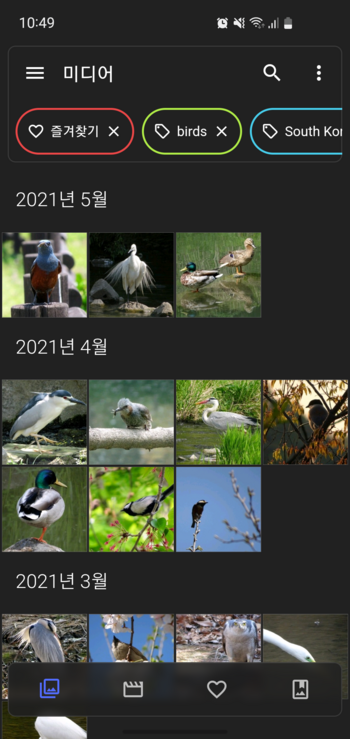
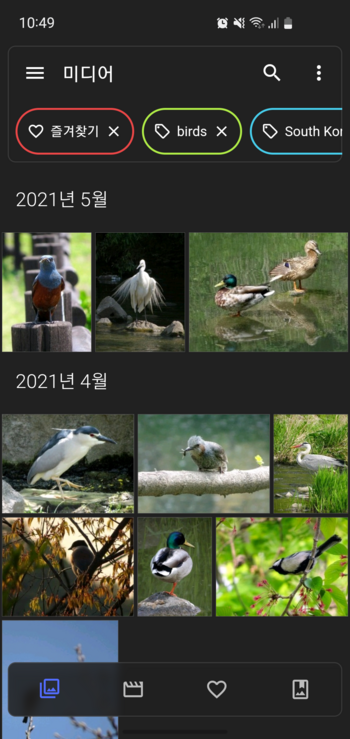
izzy: screenshot update

diff --git a/test_driver/driver_screenshots.dart b/test_driver/driver_screenshots.dart
@@ -1,8 +1,10 @@
 import 'package:aves/main_play.dart' as app;
+import 'package:aves/model/filters/favourite.dart';
 import 'package:aves/model/settings/defaults.dart';
 import 'package:aves/model/settings/enums/enums.dart';
 import 'package:aves/model/settings/settings.dart';
 import 'package:aves/model/source/enums/enums.dart';
+import 'package:aves/widgets/collection/collection_page.dart';
 import 'package:aves/widgets/filter_grids/countries_page.dart';
 import 'package:flutter_driver/driver_extension.dart';
 import 'package:flutter_test/flutter_test.dart';
@@ -17,6 +19,8 @@ Future<void> configureAndLaunch() async {
     ..hasAcceptedTerms = true
     ..isInstalledAppAccessAllowed = true
     ..isErrorReportingAllowed = false
+    ..setTileExtent(CollectionPage.routeName, 69)
+    ..setTileLayout(CollectionPage.routeName, TileLayout.mosaic)
     ..setTileExtent(CountryListPage.routeName, 112)
     ..setTileLayout(CountryListPage.routeName, TileLayout.grid)
     // display
@@ -28,6 +32,7 @@ Future<void> configureAndLaunch() async {
     ..keepScreenOn = KeepScreenOn.always
     ..homePage = HomePageSetting.collection
     ..enableBottomNavigationBar = true
+    ..drawerTypeBookmarks = [null, FavouriteFilter.instance]
     // collection
     ..collectionSectionFactor = EntryGroupFactor.month
     ..collectionSortFactor = EntrySortFactor.date
